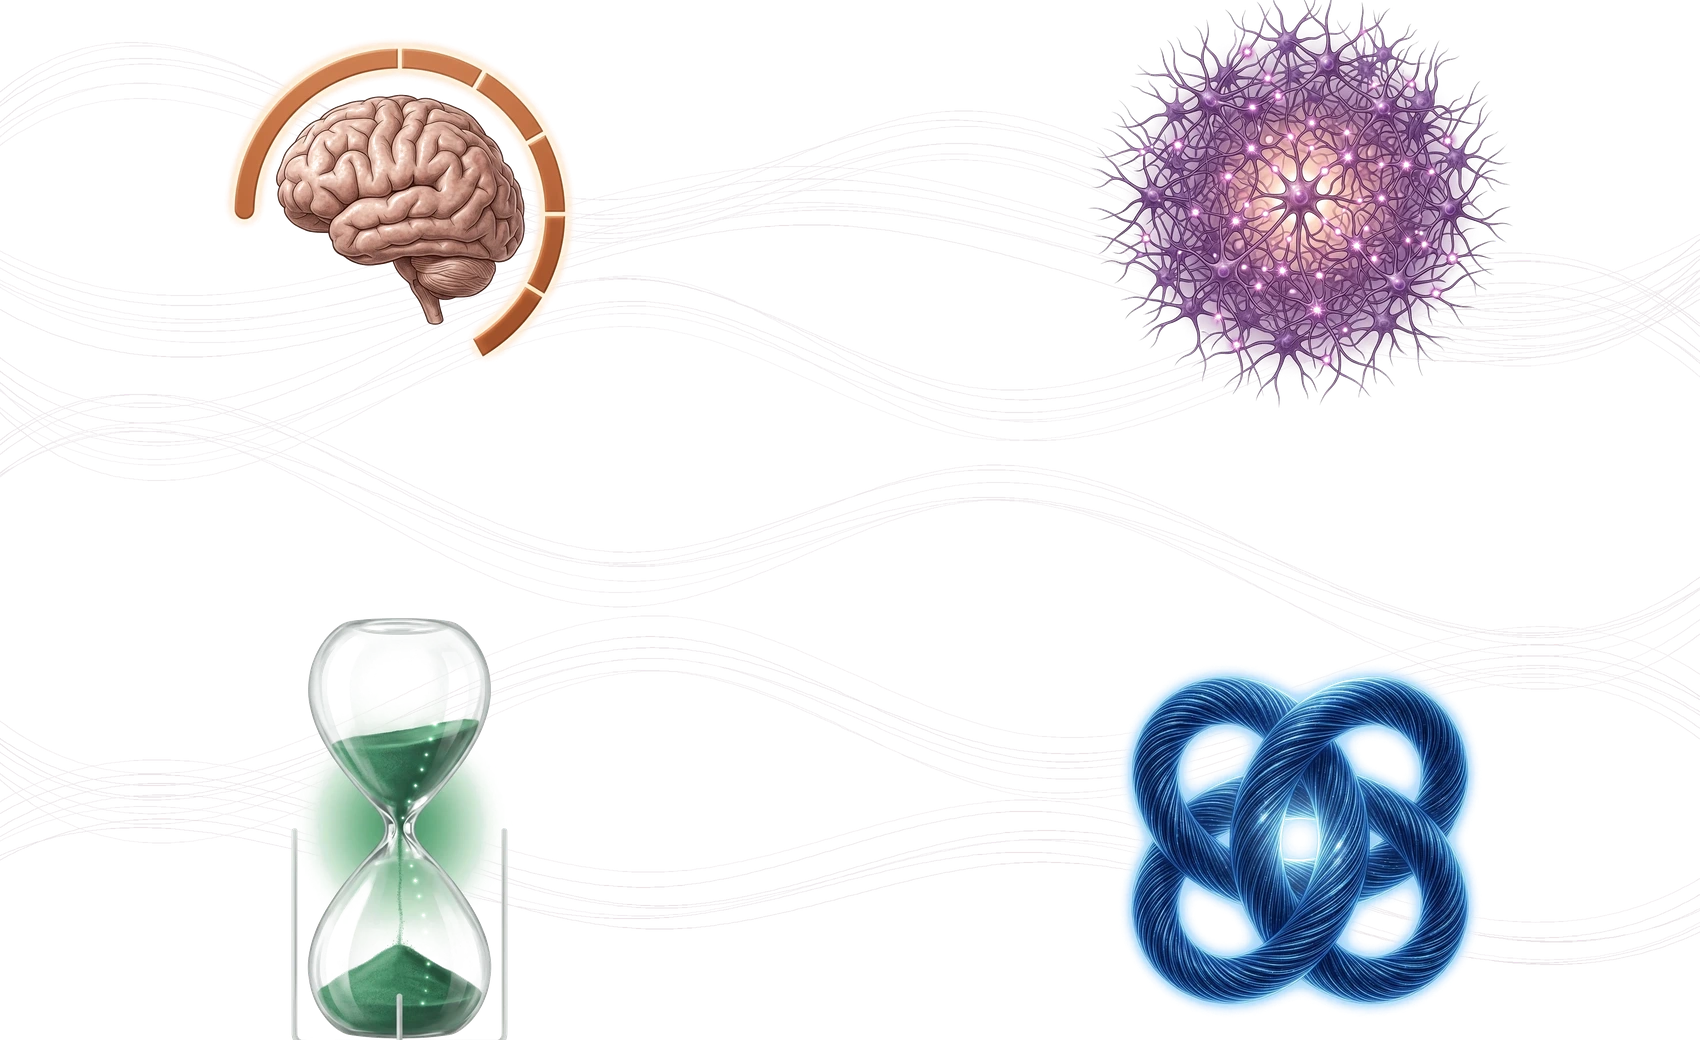
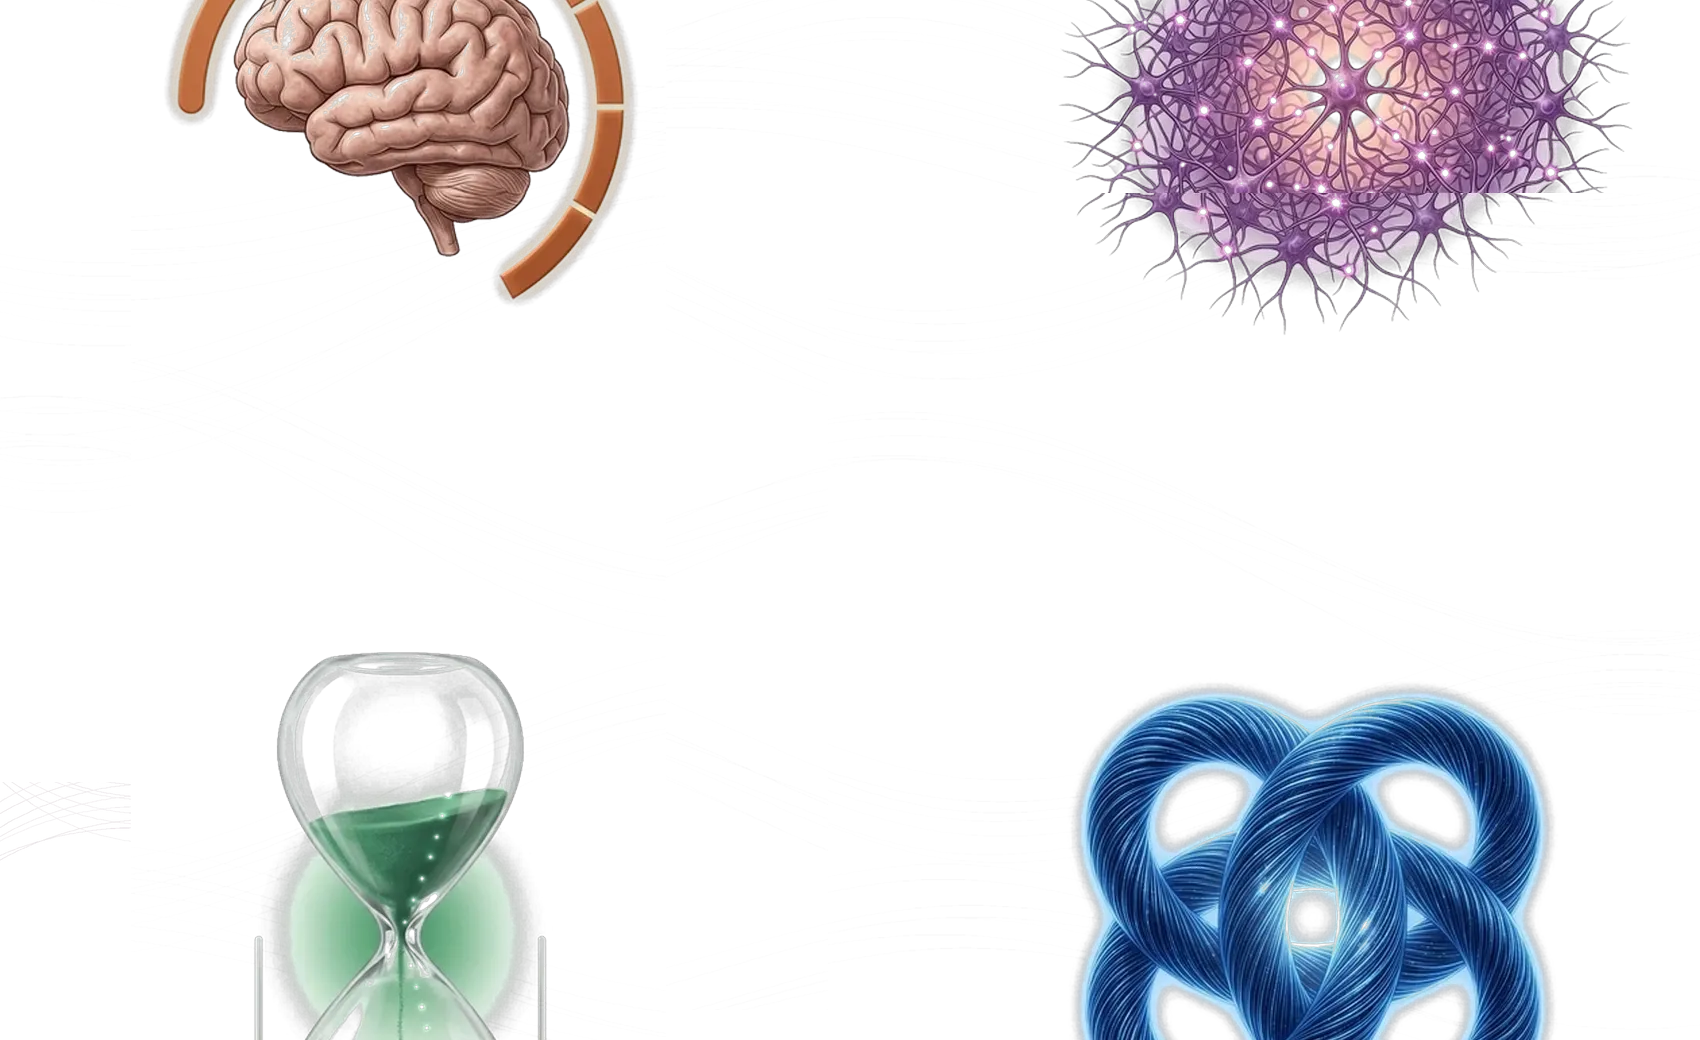
Visión: agranda los 4 íconos del fondo y reacomoda el texto tapado
- img/decoraciones-neurona/fondo-vision-red.webp: los 4 íconos (cerebro,
  red neuronal, reloj de arena, cintas azules) se agrandaron ~1.35x
  editando la imagen (no son SVGs sueltos). Recorte por canal alfa +
  escala Lanczos + borrado del parche viejo antes de pegar el agrandado
  (evita el fantasma semitransparente que dejaban los íconos con zonas
  translúcidas si no se borraba antes).
- css/styles.css: sube el top de #lam-02 .stat-annot--verde/--azul de
  64% a 40%, porque el reloj de arena/nudo ya agrandados tapaban el
  texto "4–6"/"1:1" que estaba en esa posición.
- memoria.md / changelog.md: documentan el método usado, las nuevas
  coordenadas de cada ícono, el texto reacomodado, y que esta sesión no
  usó scripts/generar-fondo-vision.py (edición directa del .webp) ni
  verificó el resultado final con Playwright a pedido del usuario.

diff --git a/css/styles.css b/css/styles.css
@@ -570,13 +570,26 @@ section.dark .btn-ghost,.hero .btn-ghost{border-color:var(--panel-line)}
    de `.vision-art`, que mide lo que mide la imagen vía `width:100%`).
    Con esto ambas cosas escalan juntas a cualquier ancho por
    construcción, ya no hace falta remedir a mano cada vez que cambia el
-   ancho de ventana o el lienzo de fondo. Coordenadas actuales medidas
-   con un script Python/PIL sobre `fondo-vision-red.webp` (1700×1040px,
-   umbral de canal alfa >180): cerebro ≈12–35%×12–46%, red neuronal
-   ≈64–89%×9–48%, reloj de arena ≈16–31%×51–99%, cintas azules
-   ≈66–87%×58–92% — cada anotación va en el hueco libre más cercano a su
-   elemento (pasillo central o margen superior) sin taparlo. Ver
-   memoria.md → Visión y el changelog de esta tanda para el detalle. */
+   ancho de ventana o el lienzo de fondo. Ver memoria.md → Visión y el
+   changelog de esta tanda para el detalle.
+
+   Sesión 2026-09-17 (tanda "íconos más grandes"): se agrandaron los 4
+   íconos dentro de `fondo-vision-red.webp` (edición de imagen, ~1.35x,
+   pegados con su propio canal alfa para no dejar fantasma del ícono
+   viejo). Coordenadas nuevas medidas con el mismo script Python/PIL
+   (umbral de canal alfa >150) sobre la imagen ya agrandada: cerebro
+   ≈10–37%×0–29%, red neuronal ≈63–96%×0–32%, reloj de arena
+   ≈15–32%×63–100%, cintas azules ≈64–91%×66–100%. Los íconos de abajo
+   (reloj/cintas) crecieron lo suficiente como para invadir el `top:64%`
+   que tenía el texto de esa fila (se veía "4–6"/"1:1" tapados por el
+   ícono) — se sube el `top` de esas dos anotaciones a 40% para que el
+   texto quede en el hueco libre entre la fila de arriba (que termina
+   ≈29–32%) y donde ahora empieza el ícono de abajo (≈63–66%), con
+   margen de sobra para el dot+número+label de dos líneas. La fila de
+   arriba (dorado/morado) no se tocó: sus íconos tocan el borde superior
+   (y empieza en 0%) pero el texto (top:1%/2%) no se solapaba en la
+   verificación visual hecha antes de agrandar los íconos de abajo — se
+   deja así, sin re-verificar de nuevo (ver "Pendientes conocidos"). */
 @media(min-width:901px){
   /* `width:100%` es necesario acá: `.vision-stats-col` no está en un
      contexto de grid/flex que lo estire (tiene `margin:auto` para
@@ -588,8 +601,8 @@ section.dark .btn-ghost,.hero .btn-ghost{border-color:var(--panel-line)}
   #lam-02 .stat-annot{position:absolute;width:38%}
   #lam-02 .stat-annot--dorado{left:1%;top:1%}
   #lam-02 .stat-annot--morado{left:41%;top:2%}
-  #lam-02 .stat-annot--verde{left:1%;top:64%}
-  #lam-02 .stat-annot--azul{left:41%;top:64%}
+  #lam-02 .stat-annot--verde{left:1%;top:40%}
+  #lam-02 .stat-annot--azul{left:41%;top:40%}
 }
 
 /* Bullets de la visión (lam-02): iconos de línea delgada en dorado. */

diff --git a/memoria.md b/memoria.md
@@ -749,6 +749,17 @@ Prioridad 2.
   de control de los listones, estilo). Si hace falta mover o agrandar
   algún elemento, conviene tocar las constantes del script y volver a
   correrlo en vez de editar los `.webp` a mano.
+  **⚠ Desvío de este criterio (sesión 2026-09-17, "íconos más
+  grandes"): el agrandado de los 4 íconos de esta tanda se hizo editando
+  el `.webp` final directamente (recorte+escala+repegado por alfa, ver
+  "Pendientes conocidos"), no tocando las constantes de
+  `generar-fondo-vision.py` y corriéndolo de nuevo — no se llegó a
+  revisar si el script tiene una constante de tamaño por elemento fácil
+  de ajustar. Si se vuelve a correr `generar-fondo-vision.py` tal como
+  está, pisa `fondo-vision-red.webp` y se pierde el agrandado de esta
+  sesión.** Próxima vez que se toque el tamaño de estos íconos, evaluar
+  primero si conviene migrar este ajuste al script (más prolijo y
+  reproducible) en vez de seguir apilando ediciones directas del `.webp`.
   **El `width` en `vw`/`clamp()` y el bleed en `right`/`top` que tuvo
   esta imagen en las tandas anteriores ya no existen** — sesión
   2026-09-17 (trigésima séptima tanda) la pasó a vivir dentro de
@@ -798,8 +809,12 @@ Prioridad 2.
   de su cuadrante sin tapar el elemento que señala) — `#lam-02
   .stat-annot{width:38%}`, dorado `left:1%;top:1%` (cerebro, arriba-izq.),
   morado `left:41%;top:2%` (red neuronal, arriba-der.), verde
-  `left:1%;top:64%` (reloj de arena, abajo-izq.), azul `left:41%;top:64%`
-  (cintas azules, abajo-der.). El número (`.stat-annot-num`) y la
+  `left:1%;top:40%` (reloj de arena, abajo-izq.), azul `left:41%;top:40%`
+  (cintas azules, abajo-der.) — **el `top` de verde/azul subió de `64%`
+  a `40%` en la sesión 2026-09-17 ("íconos más grandes", ver "Pendientes
+  conocidos"): al agrandar los íconos de esa fila dentro de la imagen,
+  el `top:64%` que tenían antes quedaba dentro del área del ícono ya
+  agrandado y el texto se veía tapado.** El número (`.stat-annot-num`) y la
   etiqueta (`.stat-annot-lab`) usan `font-size:clamp(...)` (26–36px y
   12–14px respectivamente, ver `css/styles.css`) en vez de tamaño fijo:
   a anchos angostos dentro del rango desktop (~901–1100px) el texto
@@ -1538,6 +1553,65 @@ dentro del ancho normal de la caja "Ajustado a tu caso". Suite de unit
 tests sin cambios (46/46 ok, este fix es puro CSS).
 
 ## Pendientes conocidos
+
+**Íconos de Visión agrandados dentro de la imagen + reacomodo de texto
+(sesión 2026-09-17) — sin verificación visual, el usuario pidió no
+seguir haciendo capturas en esta sesión.** El usuario pidió agrandar los
+4 íconos de `#lam-02` (cerebro, red neuronal, reloj de arena, nudo/
+cintas azules) y "acomodar" el texto que quedó tapado. Los 4 íconos
+**no son SVGs sueltos**: viven quemados dentro de un único archivo,
+`img/decoraciones-neurona/fondo-vision-red.webp` (1700×1040px, RGBA con
+canal alfa real — el "blanco" de fondo es transparente, no pintado).
+Se agrandaron con un script Python/PIL (no versionado en el repo, corrió
+en `/home/claude/work` de esta sesión): por cada ícono, recorta un
+parche alrededor de su bounding box (umbral de canal alfa >150) con
+margen generoso (2.5x), lo escala ~1.35x con Lanczos, **borra el parche
+viejo dejándolo transparente** y pega el parche agrandado encima usando
+su propio canal alfa como máscara — este orden importa: pegar el ícono
+grande directamente sobre el chico sin borrar antes deja un "fantasma"
+semitransparente doble (se probó primero así y se descartó por eso).
+`img/decoraciones-neurona/fondo-vision-red.webp` quedó reemplazado en el
+repo con la versión agrandada.
+
+Nuevas coordenadas del contenido de cada ícono (mismo script de medición
+de siempre, umbral alfa >150, sobre la imagen ya agrandada): cerebro
+≈10–37%×0–29%, red neuronal ≈63–96%×0–32%, reloj de arena
+≈15–32%×63–100%, cintas azules ≈64–91%×66–100%. Los dos de abajo crecieron
+lo suficiente para tapar el texto de esa fila (`.stat-annot--verde`/
+`--azul`, que tenían `top:64%`, ahora dentro del rango del ícono
+agrandado) — se subió su `top` a `40%` en `css/styles.css` (queda en el
+hueco libre entre el borde inferior de la fila de arriba, ≈29–32%, y el
+inicio del ícono de abajo, ≈63–66%). La fila de arriba (dorado/morado,
+`top:1%/2%`) no se tocó: no hubo reporte ni indicio de que se tape con
+el cerebro/red ya agrandados, pero **tampoco se reverificó con
+Playwright después del agrandado** (sí se había verificado, sin
+problema, antes de agrandar los íconos de abajo).
+
+**Falta para quien retome esto:**
+- Verificar con Playwright (desktop ≥901px, donde aplica el
+  posicionamiento absoluto) que "4–6"/"1:1" ya no queden tapados por el
+  reloj/nudo agrandados, y que el `top:40%` no los deje demasiado
+  pegados a la fila de arriba ni con el label de 2 líneas cortado.
+- Confirmar que dorado/morado (fila de arriba) siguen sin tocarse con el
+  cerebro/red ya agrandados — no debería haber cambiado nada ahí (el
+  `top` no se movió) pero no se re-tomó captura para confirmarlo en esta
+  tanda.
+- Revisar en mobile (≤900px): en ese breakpoint las `.stat-annot` no
+  usan posicionamiento absoluto (ver la regla base más simple, columna
+  apilada) así que el agrandado del ícono de fondo no debería afectar el
+  texto ahí, pero no se verificó.
+- El script de agrandado no quedó guardado en el repo (vivió en
+  `/home/claude/work` de la sesión de trabajo, no en `Sinaptix/`). Si se
+  necesita volver a tocar el tamaño de algún ícono, hay que rehacerlo
+  desde cero con el mismo método (recorte por alfa + Lanczos + borrar-
+  antes-de-pegar) en vez de editar el `.webp` a mano.
+- Queda un backup de la imagen **anterior** al agrandado (íconos
+  originales, antes de esta sesión) en `/home/claude/work/
+  fondo-vision-red-ORIGINAL-backup.webp` de esta sesión de trabajo — no
+  está en el repo ni en el patch; si hace falta revertir el tamaño de
+  los íconos y ese entorno de trabajo ya no existe, hay que recrearlo
+  desde el historial de git (el commit anterior a este todavía tiene el
+  `.webp` viejo).
 
 **Plan: reemplazar las tarjetas de Visión por anotaciones a mano (2
 sesiones) — sesión 1 hecha (2026-09-17), sesión 2 (mobile + limpieza)

diff --git a/changelog.md b/changelog.md
@@ -8,6 +8,62 @@
 > wizard de nutrición, "Mi plan", backend, ilustraciones, etc.) quedó
 > archivado completo en `historico/changelog-2026-09-14.md`.
 
+## 2026-09-17 (trigésima novena tanda) — Íconos de Visión más grandes + texto reacomodado
+
+Commit: ver hash en el archivo `.patch` generado para esta tanda.
+
+A pedido del usuario ("hazlos iconos mas grandes y le falta apenitas
+acomodarle los textos"), sobre una captura del sitio ya desplegado en
+Netlify mostrando la sección Visión con las 4 anotaciones (cerebro,
+red neuronal, reloj de arena, cintas azules/nudo).
+
+- **Diagnóstico**: los 4 íconos no son SVGs sueltos, están quemados
+  dentro de un único archivo `img/decoraciones-neurona/fondo-vision-red.webp`
+  (1700×1040px, RGBA con transparencia real). Agrandarlos requiere
+  editar la imagen, no un simple ajuste de CSS.
+- **Edición de imagen**: script Python/PIL (no versionado en el repo,
+  corrió en el entorno de trabajo de esta sesión) que, por cada ícono:
+  mide su bounding box por canal alfa (umbral >150), recorta un parche
+  con margen generoso (2.5x el tamaño del ícono), lo escala 1.35x con
+  Lanczos, **borra el parche viejo dejándolo transparente** y pega el
+  parche agrandado encima usando su propio canal alfa como máscara. Se
+  probaron antes dos variantes que se descartaron: (a) pegar el parche
+  agrandado directo sobre el viejo sin borrar antes → dejaba un
+  "fantasma" semitransparente del ícono chico debajo (los íconos tienen
+  zonas translúcidas — vidrio del reloj, halo/glow del nudo y la red
+  neuronal — que no tapan del todo lo de abajo); (b) mezclar con un
+  feather rectangular difuminado en los bordes del parche → mezclaba dos
+  renders del mismo objeto a distinta escala y se veía doble/fantasma
+  igual, peor que (a). La solución final evita ambos problemas porque
+  no hay una versión vieja debajo para filtrar: se borra primero.
+- **Texto tapado**: al agrandar los íconos de la fila de abajo (reloj de
+  arena y nudo), su nueva extensión vertical (medida después de
+  agrandar, umbral alfa >150: reloj ≈15–32%×63–100%, nudo/cintas azules
+  ≈64–91%×66–100%) empezó a superponerse con `top:64%`, la posición fija
+  en la que estaba el texto de esa fila (`.stat-annot--verde`/`--azul`
+  en `css/styles.css`) — "4–6" y "1:1" con su etiqueta quedaban tapados
+  por el ícono. Se subió ese `top` a `40%`, que cae en el hueco libre
+  entre el borde inferior de la fila de arriba (cerebro/red neuronal,
+  ≈29–32%) y el nuevo borde superior del ícono de abajo (≈63–66%). La
+  fila de arriba (dorado/morado, `top:1%/2%`) no se tocó — no hay indicio
+  de que el cerebro/red neuronal ya agrandados tapen su texto, pero no
+  se reverificó visualmente en esta tanda (ver "Pendientes conocidos").
+- **Sin verificación visual con Playwright en esta tanda**: a pedido
+  explícito del usuario, que pidió no seguir generando capturas de
+  pantalla y pasar directo al patch. Se había verificado con Playwright
+  el estado *previo* al agrandado de íconos (reproducción fiel de la
+  captura del usuario) y el agrandado de imagen en sí (recortes por
+  cuadrante, sin fantasmas ni cortes), pero **no** el resultado final
+  combinado (imagen agrandada + `top:40%` nuevo) en un navegador.
+- **Archivos tocados**: `img/decoraciones-neurona/fondo-vision-red.webp`
+  (reemplazado, contenido binario) y `css/styles.css` (2 valores de
+  `top`, sección `#lam-02 .stat-annot--verde/--azul` dentro del
+  `@media(min-width:901px)`).
+- Ver "Estado actual del diseño" → Visión y "Pendientes conocidos" en
+  `memoria.md` para el detalle completo, incluida la nota sobre el
+  desvío del criterio de `scripts/generar-fondo-vision.py` (esta tanda
+  editó el `.webp` final directo en vez de tocar constantes del script).
+
 ## 2026-09-17 (trigésima octava tanda) — Script `scripts/generar-fondo-vision.py`: la composición del fondo de Visión queda reproducible por código
 
 Commit: ver hash en el archivo `.patch` generado para esta tanda.
